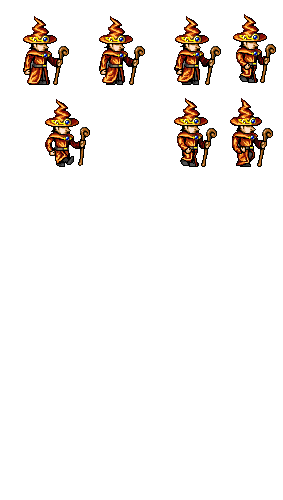
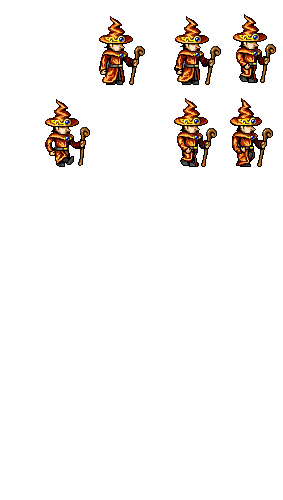
Animações adicionadas: Andar e Atacar
Pulo funcionando

Changed region(s): [[0.0848, 0.03, 0.2544, 0.18]]

diff --git a/Assets/_Scripts/PlayerControll.cs b/Assets/_Scripts/PlayerControll.cs
@@ -3,8 +3,7 @@ using System.Collections;
 
 public class PlayerControll : MonoBehaviour {
 	public GameObject players;
-	public float limiteRigth;
-	public float limiteLeft;
+
 	public float speed;
 	public Animator Anime;
 
@@ -21,12 +20,7 @@ public class PlayerControll : MonoBehaviour {
 
 		players.transform.Translate (translation, 0 , 0);
 
-		if (players.transform.position.x > limiteRigth) { 
-			players.transform.position = new Vector2(limiteRigth, players.transform.position.y);
-		}
-		if (players.transform.position.x < limiteLeft) { 
-			players.transform.position = new Vector2(limiteLeft, players.transform.position.y);
-		}
+
 
 		if(Input.GetKeyDown(KeyCode.UpArrow) || (players.transform.position.y <= 0))
 		{
@@ -43,6 +37,14 @@ public class PlayerControll : MonoBehaviour {
 		}
 		else
 			Anime.SetBool("Walk",false);
+
+		if(Input.GetKey(KeyCode.Space))
+		{
+			Anime.SetBool("Attack",true);
+			print ("space key was pressed");
+		}
+		else 
+			Anime.SetBool("Attack", false);
 
 
 

diff --git a/Assets/script_colider.cs b/Assets/script_colider.cs
@@ -1,0 +1,17 @@
+using UnityEngine;
+using System.Collections;
+
+public class script_colider : MonoBehaviour {
+	public GameObject AtachedRidbody ;
+	public Rigidbody2D	ColiderRigdBody;
+	// Use this for initialization
+	void Start () {
+	
+	}
+	
+	// Update is called once per frame
+	void Update () {
+
+		
+	}
+}
